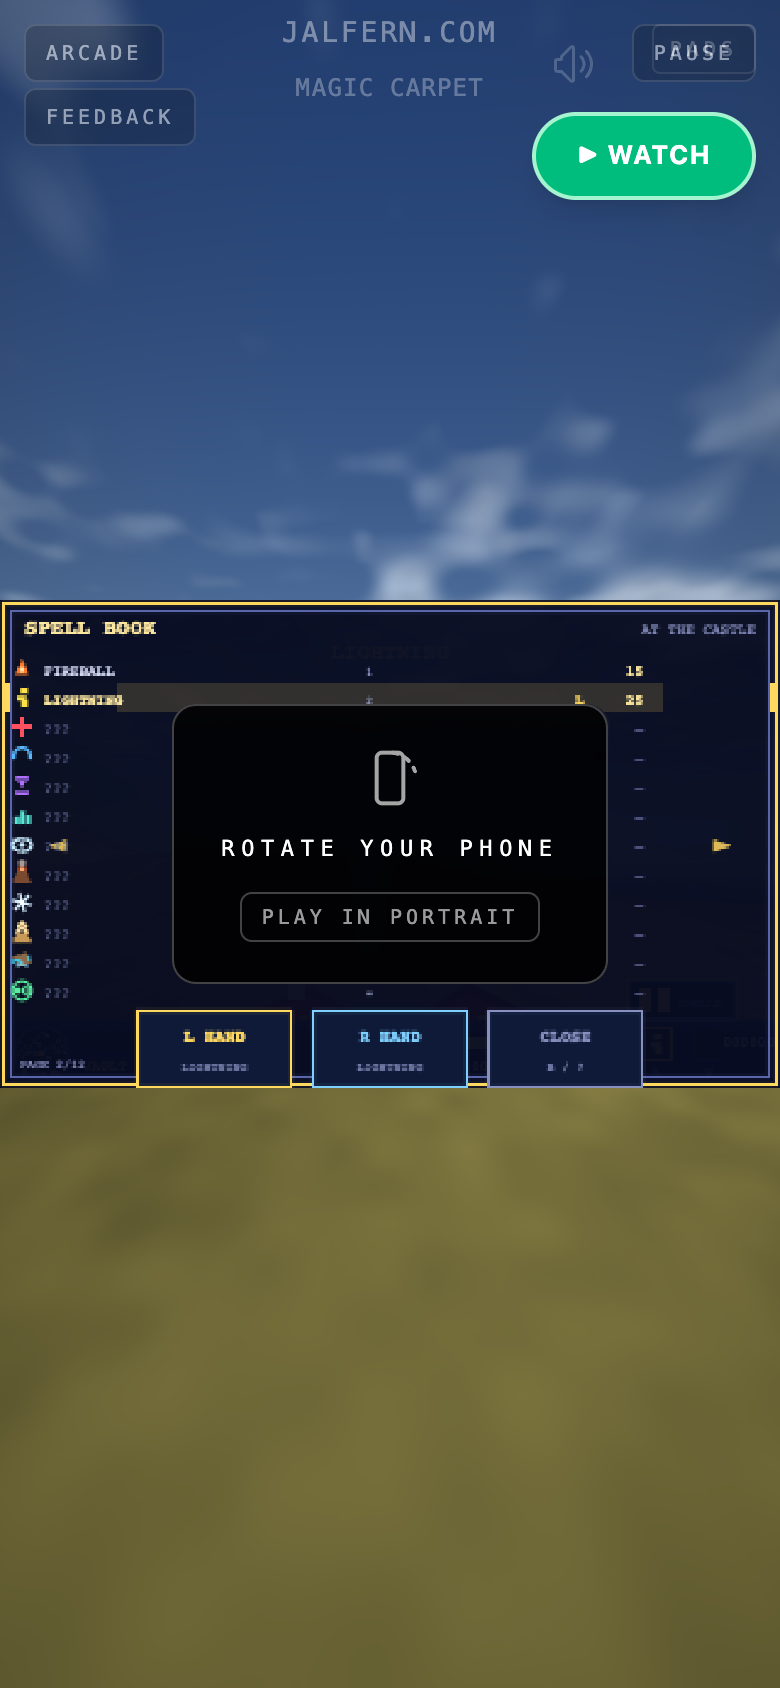
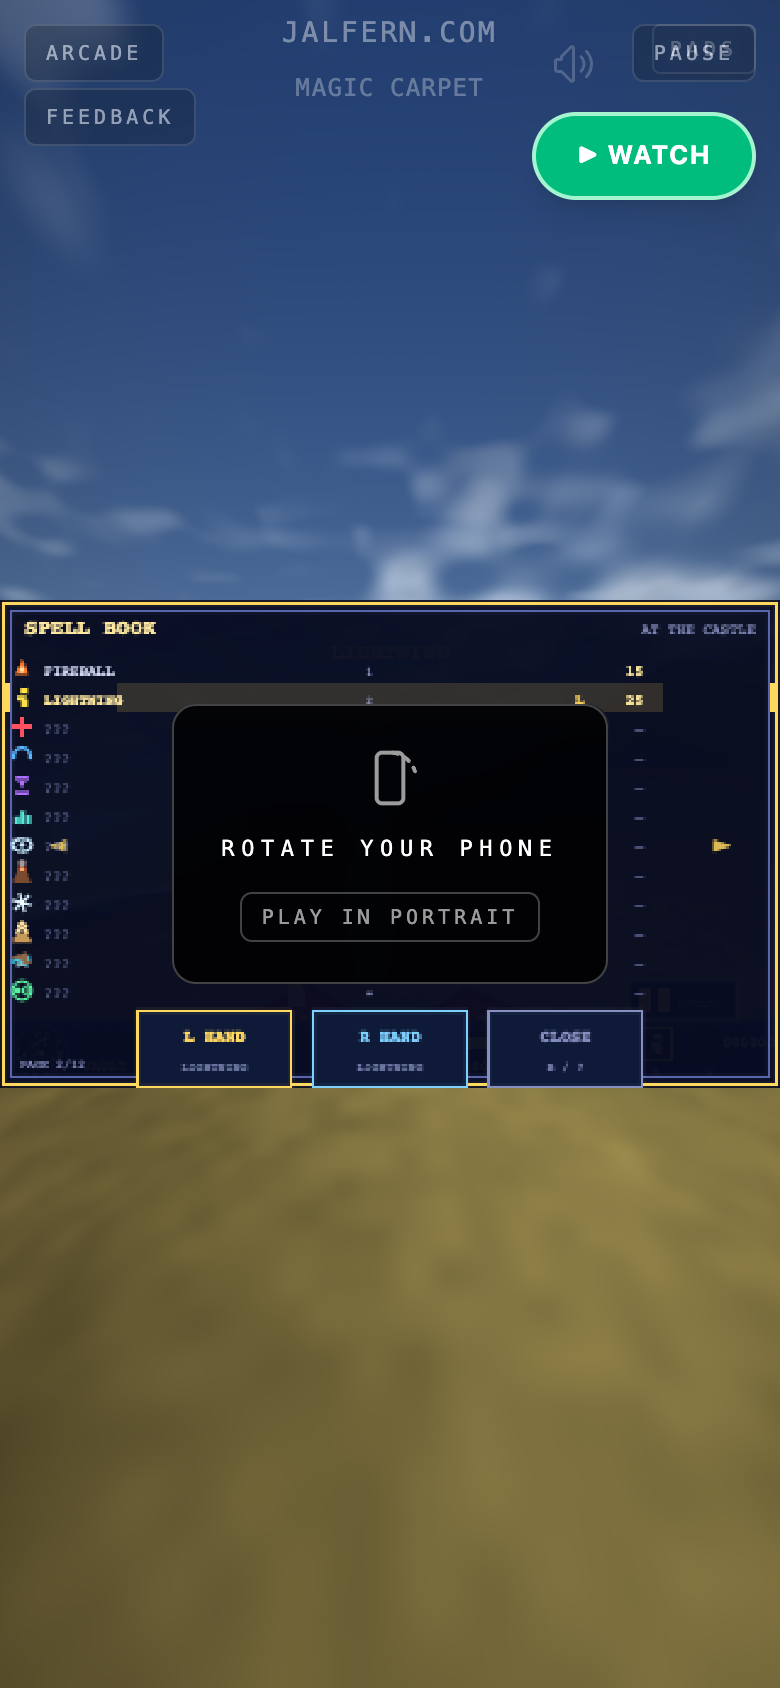
QA #1764 item 5 stage 5: AERIAL PERSPECTIVE — fog becomes a ground-hugging haze layer (full at/below 18u, summits above 74u keep half crispness) and climbing thins the path (air 1.0→0.6 at the eye); AIR_GLSL mirrors the sim.js law constant-for-constant at all three fog sites (terrain, sprites, bolts

diff --git a/src/games/MagicCarpet/renderer.js b/src/games/MagicCarpet/renderer.js
@@ -15,7 +15,7 @@
 //  - post: bright-pass bloom + vignette composited at screen resolution.
 
 import * as THREE from 'three'
-import { MAP, GRID, WATER, SANDL, GRASSL, ROCKL } from './sim.js'
+import { MAP, GRID, WATER, SANDL, GRASSL, ROCKL, FOG_NEAR, FOG_D, HAZE } from './sim.js'
 import {
     drawPearl, drawBook, drawBalloon, drawCastle, drawTower, drawWizard,
     drawGiant, drawWolf, drawCow, drawVillager, drawHut, drawFireball, drawBolt,
@@ -25,7 +25,18 @@ const N = GRID
 const CELL = MAP / GRID
 const SPAN = 72
 const HALF = (SPAN * CELL) / 2
-const FOG_D = 260
+// FOG_D/FOG_NEAR/HAZE (#1764 item 5 stage 5) come from sim.js — the single
+// source of the aerial-perspective law; the GLSL below bakes those literals.
+
+// The aerial law in GLSL, mirroring aerialFog() in sim.js constant-for-constant:
+// haze is a ground-hugging layer (dense at/below floorY, crisp above topY) and
+// the camera's altitude thins the path (airOf). Injected at every fog site so
+// no site can drift back to a distance-only mix.
+const AIR_GLSL = `
+float hazeOfG(float y){ return ${HAZE.keep} + ${1 - HAZE.keep} * clamp((${HAZE.topY}.0 - y) / ${(HAZE.topY - HAZE.floorY)}.0, 0.0, 1.0); }
+float airOfG(float camY){ return max(${HAZE.floor}, 1.0 - ${1 - HAZE.floor} * max(0.0, camY - ${HAZE.nearY}.0) / ${(HAZE.farY - HAZE.nearY)}.0); }
+float aerialG(float dist, float y, float camY){ return smoothstep(${FOG_NEAR}.0, uFogD, dist) * hazeOfG(y) * airOfG(camY); }
+`
 
 // Per-world atmospheres: same rules, three skies. Colors are authored as final
 // sRGB (ColorManagement is disabled for this renderer's lifetime).
@@ -245,6 +256,7 @@ const BILL_VERT = `
 uniform vec3 uRight; uniform vec3 uUp; uniform vec3 uFwd; uniform vec3 uCamPos; uniform float uFogD;
 attribute vec3 aPos; attribute vec2 aSize; attribute vec4 aUv; attribute vec4 aTint; attribute float aSeed;
 varying vec2 vUv; varying vec3 vTint; varying float vAlpha; varying float vFog; varying float vSeed; varying float vUp;
+${AIR_GLSL}
 void main(){
     vec2 q = uv;
     float anchor = aUv.w < 0.0 ? 0.5 : 0.0; // packed: negative stored h means centered anchor
@@ -254,7 +266,7 @@ void main(){
     vec3 upv = normalize(mix(uUp, uFwd, lean));
     vec3 world = aPos + uRight * (q.x - 0.5) * aSize.x + upv * (q.y - anchor) * aSize.y;
     vec3 rel = world - uCamPos;
-    vFog = smoothstep(70.0, uFogD, length(rel));
+    vFog = aerialG(length(rel), aPos.y, uCamPos.y);
     vUv = vec2(aUv.x + q.x * aUv.z, aUv.y - (1.0 - q.y) * abs(aUv.w));
     vTint = aTint.rgb; vAlpha = aTint.a; vSeed = aSeed; vUp = q.y;
     gl_Position = projectionMatrix * viewMatrix * vec4(world, 1.0);
@@ -350,6 +362,7 @@ uniform vec3 uZenith, uFogCol, uSunCol, uDeep, uShallow, uFoam, uSand, uGrassA, 
 uniform float uFogD;
 varying float vH; varying float vGlow; varying float vScorch; varying vec3 vWorld; varying float vDist;
 ${NOISE_GLSL}
+${AIR_GLSL}
 float hAt(vec2 xz){ return texture2D(uData, xz / ${MAP}.0).r * 96.0; }
 void main(){
     vec3 nrm = normalize(vec3(
@@ -417,7 +430,10 @@ void main(){
     }
     float cshade = fbm2(vWorld.xz * 0.011 + vec2(uWorldTime * 0.0016, uWorldTime * 0.0009));
     col *= 1.0 - 0.22 * smoothstep(0.48, 0.76, cshade);
-    col = mix(col, uFogCol, smoothstep(70.0, uFogD, vDist) * 0.92);
+    // #1764 item 5 stage 5: aerial perspective — the haze layer (hazeOfG) and
+    // the carpet's altitude (airOfG) shape the mix; the max() keeps the original
+    // horizon fuse: the grid edge must still dissolve into the fog color.
+    col = mix(col, uFogCol, max(aerialG(vDist, vH, uCamPos.y) * 0.92, smoothstep(${HALF - 28}.0, ${HALF - 4}.0, vDist) * 0.92));
     gl_FragColor = vec4(col, 1.0);
 }
 `
@@ -526,9 +542,12 @@ void main(){
     boltGeo.setAttribute('position', new THREE.BufferAttribute(boltPos, 3))
     boltGeo.setDrawRange(0, 0)
     const boltMat = new THREE.ShaderMaterial({
-        uniforms: { uFade: { value: 0 }, uCamPos: tUniforms.uCamPos, uFogCol: tUniforms.uFogCol },
-        vertexShader: 'uniform vec3 uCamPos; varying float vD; void main(){ vD = length(position - uCamPos); gl_Position = projectionMatrix * viewMatrix * vec4(position, 1.0); }',
-        fragmentShader: 'precision highp float; uniform float uFade; uniform vec3 uFogCol; varying float vD; void main(){ gl_FragColor = vec4(mix(vec3(0.85, 0.9, 1.6), uFogCol, smoothstep(70.0, 260.0, vD)), uFade); }',
+        uniforms: { uFade: { value: 0 }, uCamPos: tUniforms.uCamPos, uFogCol: tUniforms.uFogCol, uFogD: tUniforms.uFogD },
+        // #1764 item 5 stage 5: a distant bolt dims through the same aerial law
+        // (its strike height rides position.y), so far lightning reads as glow in
+        // the haze instead of a full-bright crack at the horizon.
+        vertexShader: `uniform vec3 uCamPos; uniform float uFogD; varying float vFog; ${AIR_GLSL} void main(){ vFog = aerialG(length(position - uCamPos), position.y, uCamPos.y); gl_Position = projectionMatrix * viewMatrix * vec4(position, 1.0); }`,
+        fragmentShader: 'precision highp float; uniform float uFade; uniform vec3 uFogCol; varying float vFog; void main(){ gl_FragColor = vec4(mix(vec3(0.85, 0.9, 1.6), uFogCol, vFog), uFade); }',
         transparent: true, blending: THREE.AdditiveBlending, depthWrite: false,
     })
     const boltMesh = new THREE.LineSegments(boltGeo, boltMat)

diff --git a/src/games/MagicCarpet/sim.js b/src/games/MagicCarpet/sim.js
@@ -969,6 +969,29 @@ export const MUFFLE_CUTOFF = 520
 // Never feeds stateHash: like muffleOf it drives presentation (the renderer's
 // submersion mix) and audio (underwater the world goes muffled).
 export const diveOf = (gs) => Math.max(0, WATER - gs.alt)
+
+// ---- #1764 item 5 stage 5: AERIAL PERSPECTIVE (pure geometry, presentation-only)
+// The original's distance haze is a LAYER, not a per-object distance mix: low
+// land and sea dissolve into the horizon band while summits above the layer
+// stay crisp, and climbing the carpet thins the path you look through, so the
+// far ground resolves once your eye is up. renderer.js mirrors these three
+// numbers in GLSL — same literals, baked from here (single source of truth).
+// Never feeds the sim: a pure read, like castBearing/muffleOf.
+export const FOG_NEAR = 70 // the old distance-only fog kept these two edges;
+export const FOG_D = 260 // they stay the geometric bookends of the law
+export const HAZE = {
+    floorY: 18, // at/below this altitude (sea + beach) haze density is full
+    topY: 74, // at/above this altitude summits pierce the layer: density = keep
+    keep: 0.5, // crispness a peak keeps at full range
+    nearY: 40, // camera eye level with a full haze path below it
+    farY: 100, // eye level at which the path is thinnest (floor)
+    floor: 0.6, // climbing thins the path — distant land resolves, never vanizes
+}
+const clamp01 = (v) => Math.min(1, Math.max(0, v))
+const smooth01 = (a, b, x) => { const t = clamp01((x - a) / (b - a)); return t * t * (3 - 2 * t) }
+export const hazeOf = (y) => HAZE.keep + (1 - HAZE.keep) * clamp01((HAZE.topY - y) / (HAZE.topY - HAZE.floorY))
+export const airOf = (camY) => Math.max(HAZE.floor, 1 - (1 - HAZE.floor) * (Math.max(0, camY - HAZE.nearY)) / (HAZE.farY - HAZE.nearY))
+export const aerialFog = (dist, y, camY) => smooth01(FOG_NEAR, FOG_D, dist) * hazeOf(y) * airOf(camY)
 export function muffleOf(gs) {
     return gs.invis > 0 || diveOf(gs) > 0 ? MUFFLE_CUTOFF : OPEN_CUTOFF
 }

diff --git a/src/games/MagicCarpet/index.jsx b/src/games/MagicCarpet/index.jsx
@@ -19,7 +19,7 @@ import {
     LEVELS,
     SPILLS, spellById,
     makeGame, step, autopilot, stateHash, setHand, cycleR, cycleL, crater, settleGround, INVIS_T,
-    hudTap, TAP, TRAY, muffleOf, OPEN_CUTOFF, crumbleFeel, castBearing, diveOf, sampleH, WATER,
+    hudTap, TAP, TRAY, muffleOf, OPEN_CUTOFF, crumbleFeel, castBearing, diveOf, sampleH, WATER, aerialFog,
     atCastle, bookOpen, bookClose, bookKey, bookTap, BOOK, BOOK_PROMPT,
     SEL, selectTap, cursorStep,
 } from './sim.js'
@@ -1289,6 +1289,15 @@ const MagicCarpetGame = () => {
                     const h1 = sampleH(gs, gs.x, gs.y)
                     return { floor: +h1.toFixed(2), flooded: h1 < WATER, digs: n }
                 },
+                // #1764 item 5 stage 5: the aerial law sampled at the live camera
+                // — the JS mirror of the exact GLSL the shaders run (AIR_GLSL
+                // bakes these same literals), so the live gate compares what the
+                // law says at the carpet's altitude against what the pixels show.
+                aerial: (d = 200) => ({
+                    low: +aerialFog(d, WATER, gs.alt).toFixed(4),
+                    peak: +aerialFog(d, 90, gs.alt).toFixed(4),
+                    camY: +gs.alt.toFixed(2),
+                }),
                 // #1703 (phone proof): queue the same crater digHot lands — but
                 // leave the crumble window OPEN so a pass can capture mid-window
                 // (rim peak) vs settled. deforms() reports each deform's age so

diff --git a/src/games/MagicCarpet/README.md b/src/games/MagicCarpet/README.md
@@ -424,9 +424,12 @@ see item 5).
   ease-out swell, a shockwave rim that settles to exactly zero) with the
   final land provably equal to the old instant machine; the #1646-deferred
   RAISE-mound ripple ships here too.
-- Fog is per-object/per-vertex distance mix, not a true aerial-perspective
-  gradient with altitude; clouds are two dome layers that cast a drifting
-  shadow on the land, not volumetric bodies.
+- **CLOSED by #1764 (stage 5):** aerial perspective — the fog is now a ground-
+  hugging haze layer (full density at/below 18u, summits above 74u keep half
+  crispness) and climbing the carpet thins the path (air 1.0→0.6), mirrored in
+  GLSL constant-for-constant by AIR_GLSL with the horizon fuse kept.
+- Clouds are two dome layers that cast a drifting shadow on the land, not
+  volumetric bodies.
 
 ## #1746 item 7 polish (2026-11-06, QA studio): SPATIAL CAST CUE
 
